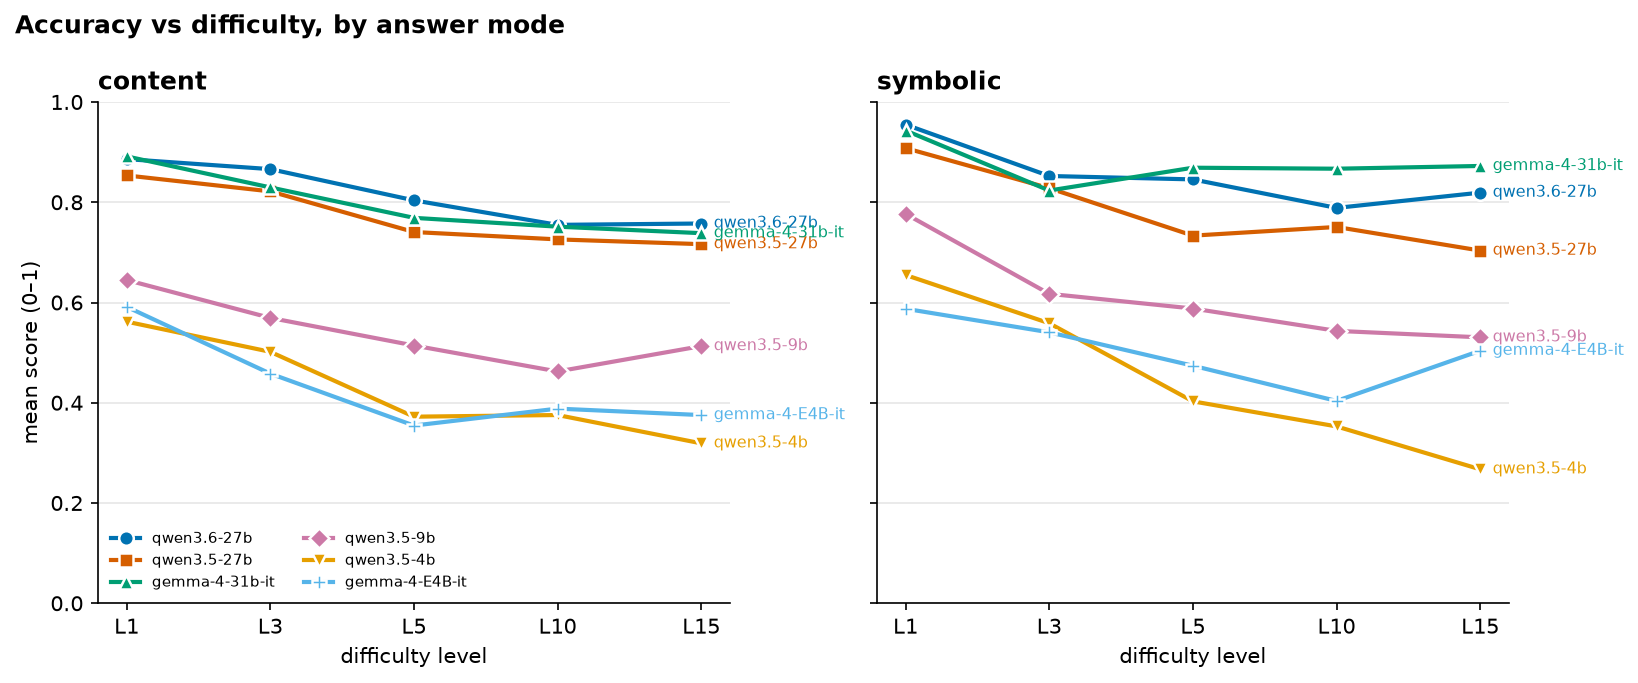
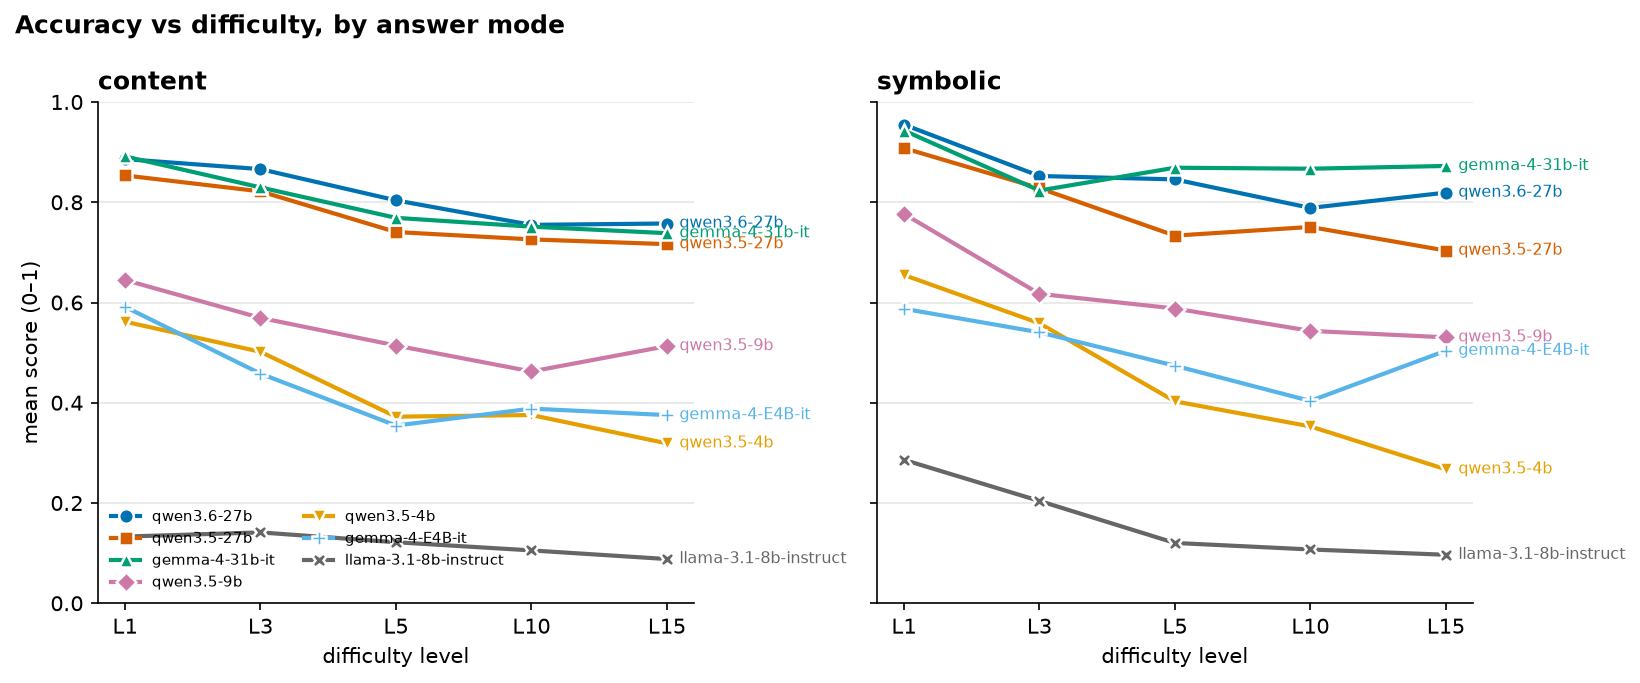
docs: complete v1 roster — add llama-3.1-8b-instruct (via ungated mirror)
llama is the weakest model at every level (content 0.09-0.14, symbolic 0.10-0.29).
Its failure mode is distinct from the small Qwens: near-zero truncation but ~30% of
items never emit the [answer] region (no_answer_region 0.29-0.36), so censored ~ raw
and its low scores are an instruction-following floor, not a clean reasoning read.
Drops the 'llama skipped' roster-gap caveat; figures regenerated with 7 models.

diff --git a/docs/model-eval-2026-07-24/make_figures.py b/docs/model-eval-2026-07-24/make_figures.py
@@ -24,11 +24,13 @@ OUT.mkdir(exist_ok=True)
 SWEEP = "grid-full"
 LEVELS = [1, 3, 5, 10, 15]
 ROSTER = ["qwen3.6-27b", "qwen3.5-27b", "gemma-4-31b-it", "qwen3.5-9b", "qwen3.5-4b",
-          "gemma-4-E4B-it"]
+          "gemma-4-E4B-it", "llama-3.1-8b-instruct"]
 COLORS = {"qwen3.6-27b": "#0072B2", "qwen3.5-27b": "#D55E00", "gemma-4-31b-it": "#009E73",
-          "qwen3.5-9b": "#CC79A7", "qwen3.5-4b": "#E69F00", "gemma-4-E4B-it": "#56B4E9"}
+          "qwen3.5-9b": "#CC79A7", "qwen3.5-4b": "#E69F00", "gemma-4-E4B-it": "#56B4E9",
+          "llama-3.1-8b-instruct": "#666666"}
 MARKERS = {"qwen3.6-27b": "o", "qwen3.5-27b": "s", "gemma-4-31b-it": "^",
-           "qwen3.5-9b": "D", "qwen3.5-4b": "v", "gemma-4-E4B-it": "P"}
+           "qwen3.5-9b": "D", "qwen3.5-4b": "v", "gemma-4-E4B-it": "P",
+           "llama-3.1-8b-instruct": "X"}
 FAMILY_SIZE = {"qwen3.5-27b": ("qwen3.5", 27), "qwen3.5-9b": ("qwen3.5", 9),
                "qwen3.5-4b": ("qwen3.5", 4), "gemma-4-31b-it": ("gemma-4", 31),
                "gemma-4-E4B-it": ("gemma-4", 4)}

diff --git a/docs/model-eval-2026-07-24/report.md b/docs/model-eval-2026-07-24/report.md
@@ -6,7 +6,8 @@ benchmark across five difficulty levels, in both answer modes.
 - **Taskset:** `pilot-20260723T131917Z-b19e635a` (1200 items; KB `0994f44e`)
 - **Grid:** 12 tasks × 2 modes × 5 levels {1, 3, 5, 10, 15} × 10 samples
 - **Models:** qwen3.6-27b, qwen3.5-27b, qwen3.5-9b, qwen3.5-4b, gemma-4-31b-it,
-  gemma-4-E4B-it (llama-3.1-8b-instruct was rostered but is gated/uncached, skipped)
+  gemma-4-E4B-it, llama-3.1-8b-instruct (served from the ungated
+  `NousResearch/Meta-Llama-3.1-8B-Instruct` mirror of the identical weights)
 - **Elicitation:** none (thinking on where supported); greedy decode per each
   model's own `generation_config`.
 - Each `(model, level)` pair is a **standalone** 240-item run and score, so per-level
@@ -69,6 +70,7 @@ and scores largely plateau there for the strong models.
 | qwen3.5-9b | 0.645 | 0.569 | 0.514 | 0.462 | 0.513 |
 | qwen3.5-4b | 0.562 | 0.502 | 0.372 | 0.376 | 0.319 |
 | gemma-4-E4B-it | 0.591 | 0.458 | 0.354 | 0.388 | 0.375 |
+| llama-3.1-8b-instruct | 0.133 | 0.141 | 0.122 | 0.105 | 0.088 |
 
 **Symbolic** (mean score)
 | model | L1 | L3 | L5 | L10 | L15 |
@@ -79,6 +81,7 @@ and scores largely plateau there for the strong models.
 | qwen3.5-9b | 0.777 | 0.617 | 0.588 | 0.543 | 0.530 |
 | qwen3.5-4b | 0.655 | 0.559 | 0.403 | 0.353 | 0.267 |
 | gemma-4-E4B-it | 0.588 | 0.540 | 0.474 | 0.404 | 0.504 |
+| llama-3.1-8b-instruct | 0.286 | 0.204 | 0.120 | 0.107 | 0.097 |
 
 **Reading:** In **content** the three ≥27B models cluster (qwen3.6 and gemma tied for
 the lead, qwen3.5-27b just behind), decaying then flattening. In **symbolic** they
@@ -101,6 +104,7 @@ symbolic easier. (The signed gap is meaningful; the average of the two modes is 
 | gemma-4-31b-it | +0.052 | −0.006 | +0.100 | +0.116 | +0.134 |
 | qwen3.5-9b | +0.132 | +0.048 | +0.074 | +0.081 | +0.017 |
 | qwen3.5-4b | +0.093 | +0.057 | +0.031 | −0.023 | −0.052 |
+| llama-3.1-8b-instruct | +0.153 | +0.063 | −0.001 | +0.002 | +0.008 |
 
 **Reading:** All models start symbolic-favored at L1, then the gap collapses to ≈0
 at L3 (the L3 feature unlocks tax symbolic reasoning too). After L3, **gemma
@@ -132,11 +136,24 @@ completed answers.
 For the ≥27B models truncation is ≤5% and raw ≈ censored, so this correction does not
 apply to them (gemma never truncates).
 
+**llama-3.1-8b is the opposite case — format-limited, not length-limited.** It is the
+weakest model at every level (content 0.09–0.14, symbolic 0.10–0.29), but its
+truncation is near-zero (≤4%); instead **~30% of its items never emit the required
+`[answer]` region** (`no_answer_region` 0.29–0.36). So censoring truncated items
+barely moves its scores (censored ≈ raw), and its low numbers are largely an
+instruction-following failure — it does not reliably produce the answer-submission
+contract under the default `answer_tags` template — that cannot be cleanly separated
+from reasoning here. Read llama as a floor set by format compliance, not a clean
+reasoning measurement. (A less strict answer template, or a `cot`/`concise`
+elicitation, would likely recover some of this — the roster deliberately holds the
+template fixed for comparability.)
+
 **Reading:** The raw small-model "collapse" is largely a mirage. **Censored, the 9B
 holds ~0.69–0.83 and the 4B ~0.56–0.81 — far flatter and higher than raw** — because
 15–49% of their items never produce a scorable answer (degenerate looping into the
 cap), not because they reason that much worse. Any capability read on the small
-models must use censored alongside raw.
+models must use censored alongside raw. The two failure modes are distinct: the small
+Qwens fail by **truncation** (length), llama by **no answer region** (format).
 
 ---
 
@@ -187,11 +204,13 @@ harder in content than symbolic.
   it as a descriptive model property here, not a clean representation measurement. A
   follow-up benchmark pairing one fixed structure with several coherent content
   renderings is planned to de-confound it (repo issue #15).
-- **Small-model comparisons require censored scores** (§5).
+- **Small-model comparisons require censored scores** (§5) — but only for the
+  truncation-limited small Qwens; llama-3.1-8b is format-limited (censored ≈ raw).
 - **Pure-scale levels carry little extra signal** — the informative difficulty is the
   qualitative feature ladder (L1–L5).
-- **Roster gap:** llama-3.1-8b is gated/uncached and skipped; no external-family
-  small model is included.
+- **llama-3.1-8b's scores are a format-compliance floor**, not a clean reasoning
+  read (§5), and it is the only external-family model (served from an ungated mirror
+  of the identical weights; not cryptographically verified against Meta's repo).
 - **Point estimates:** single decode per item, 10 samples/cell (stderr ≈ 0.01–0.03).
 
 ---
